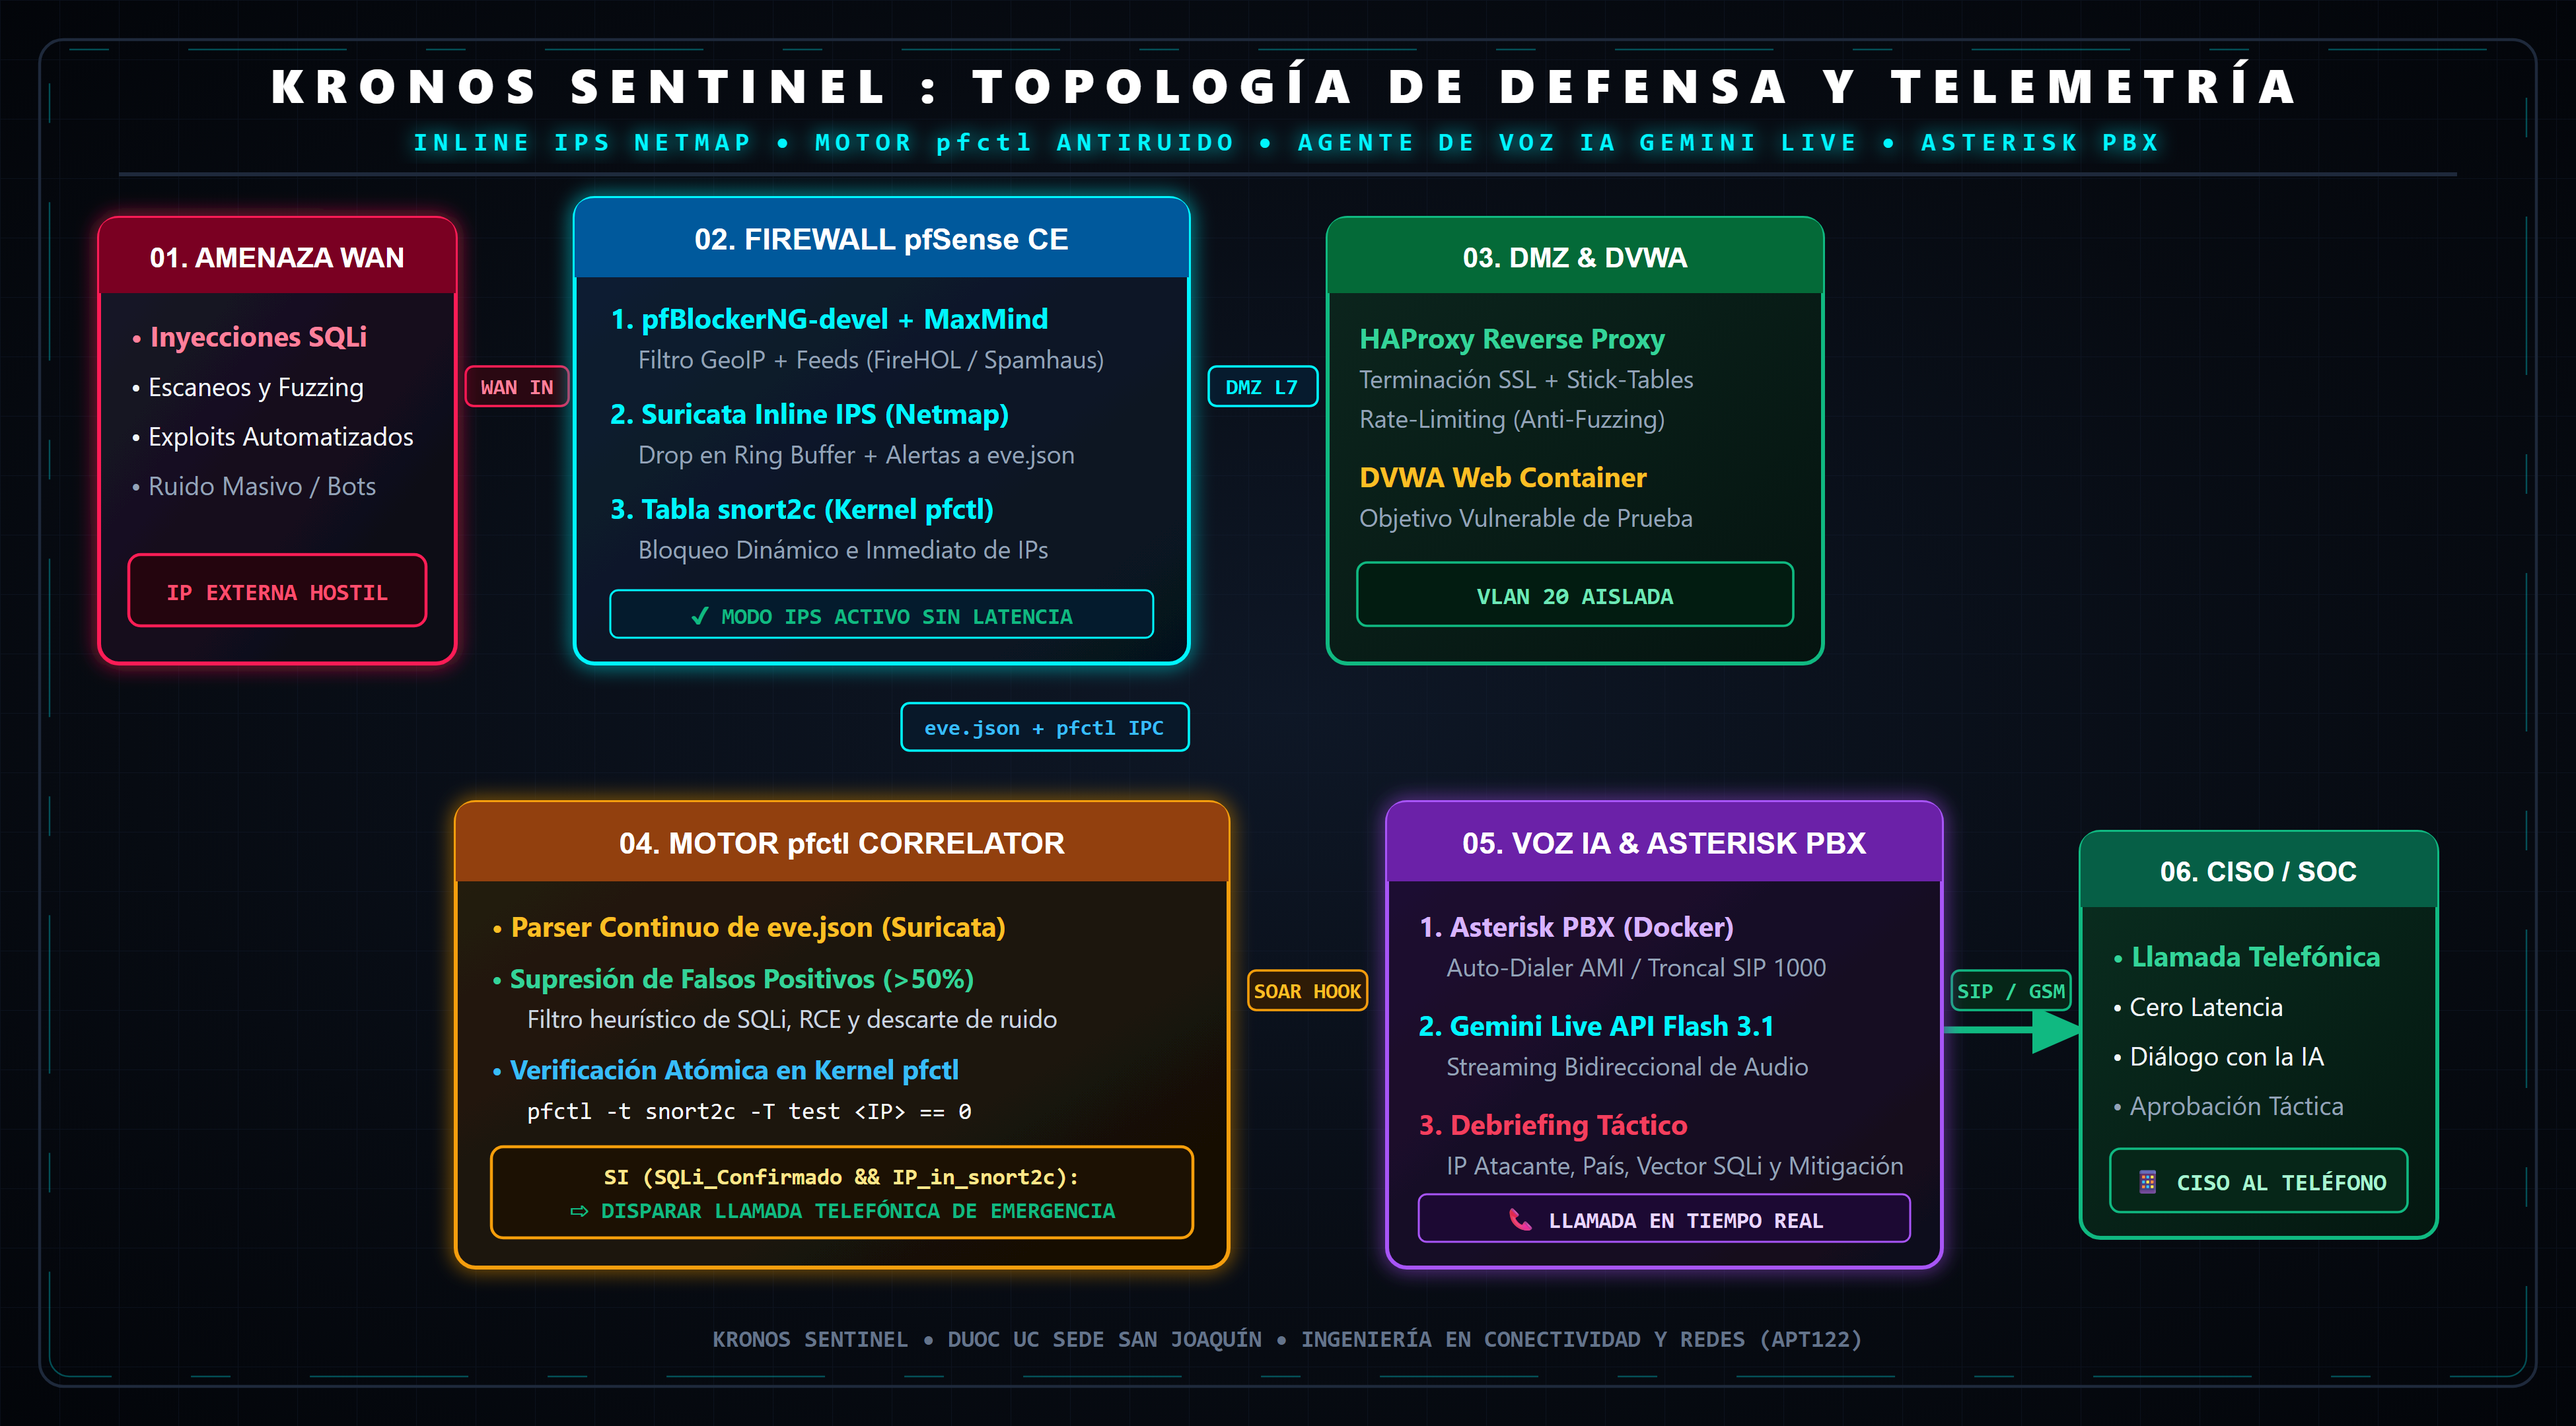
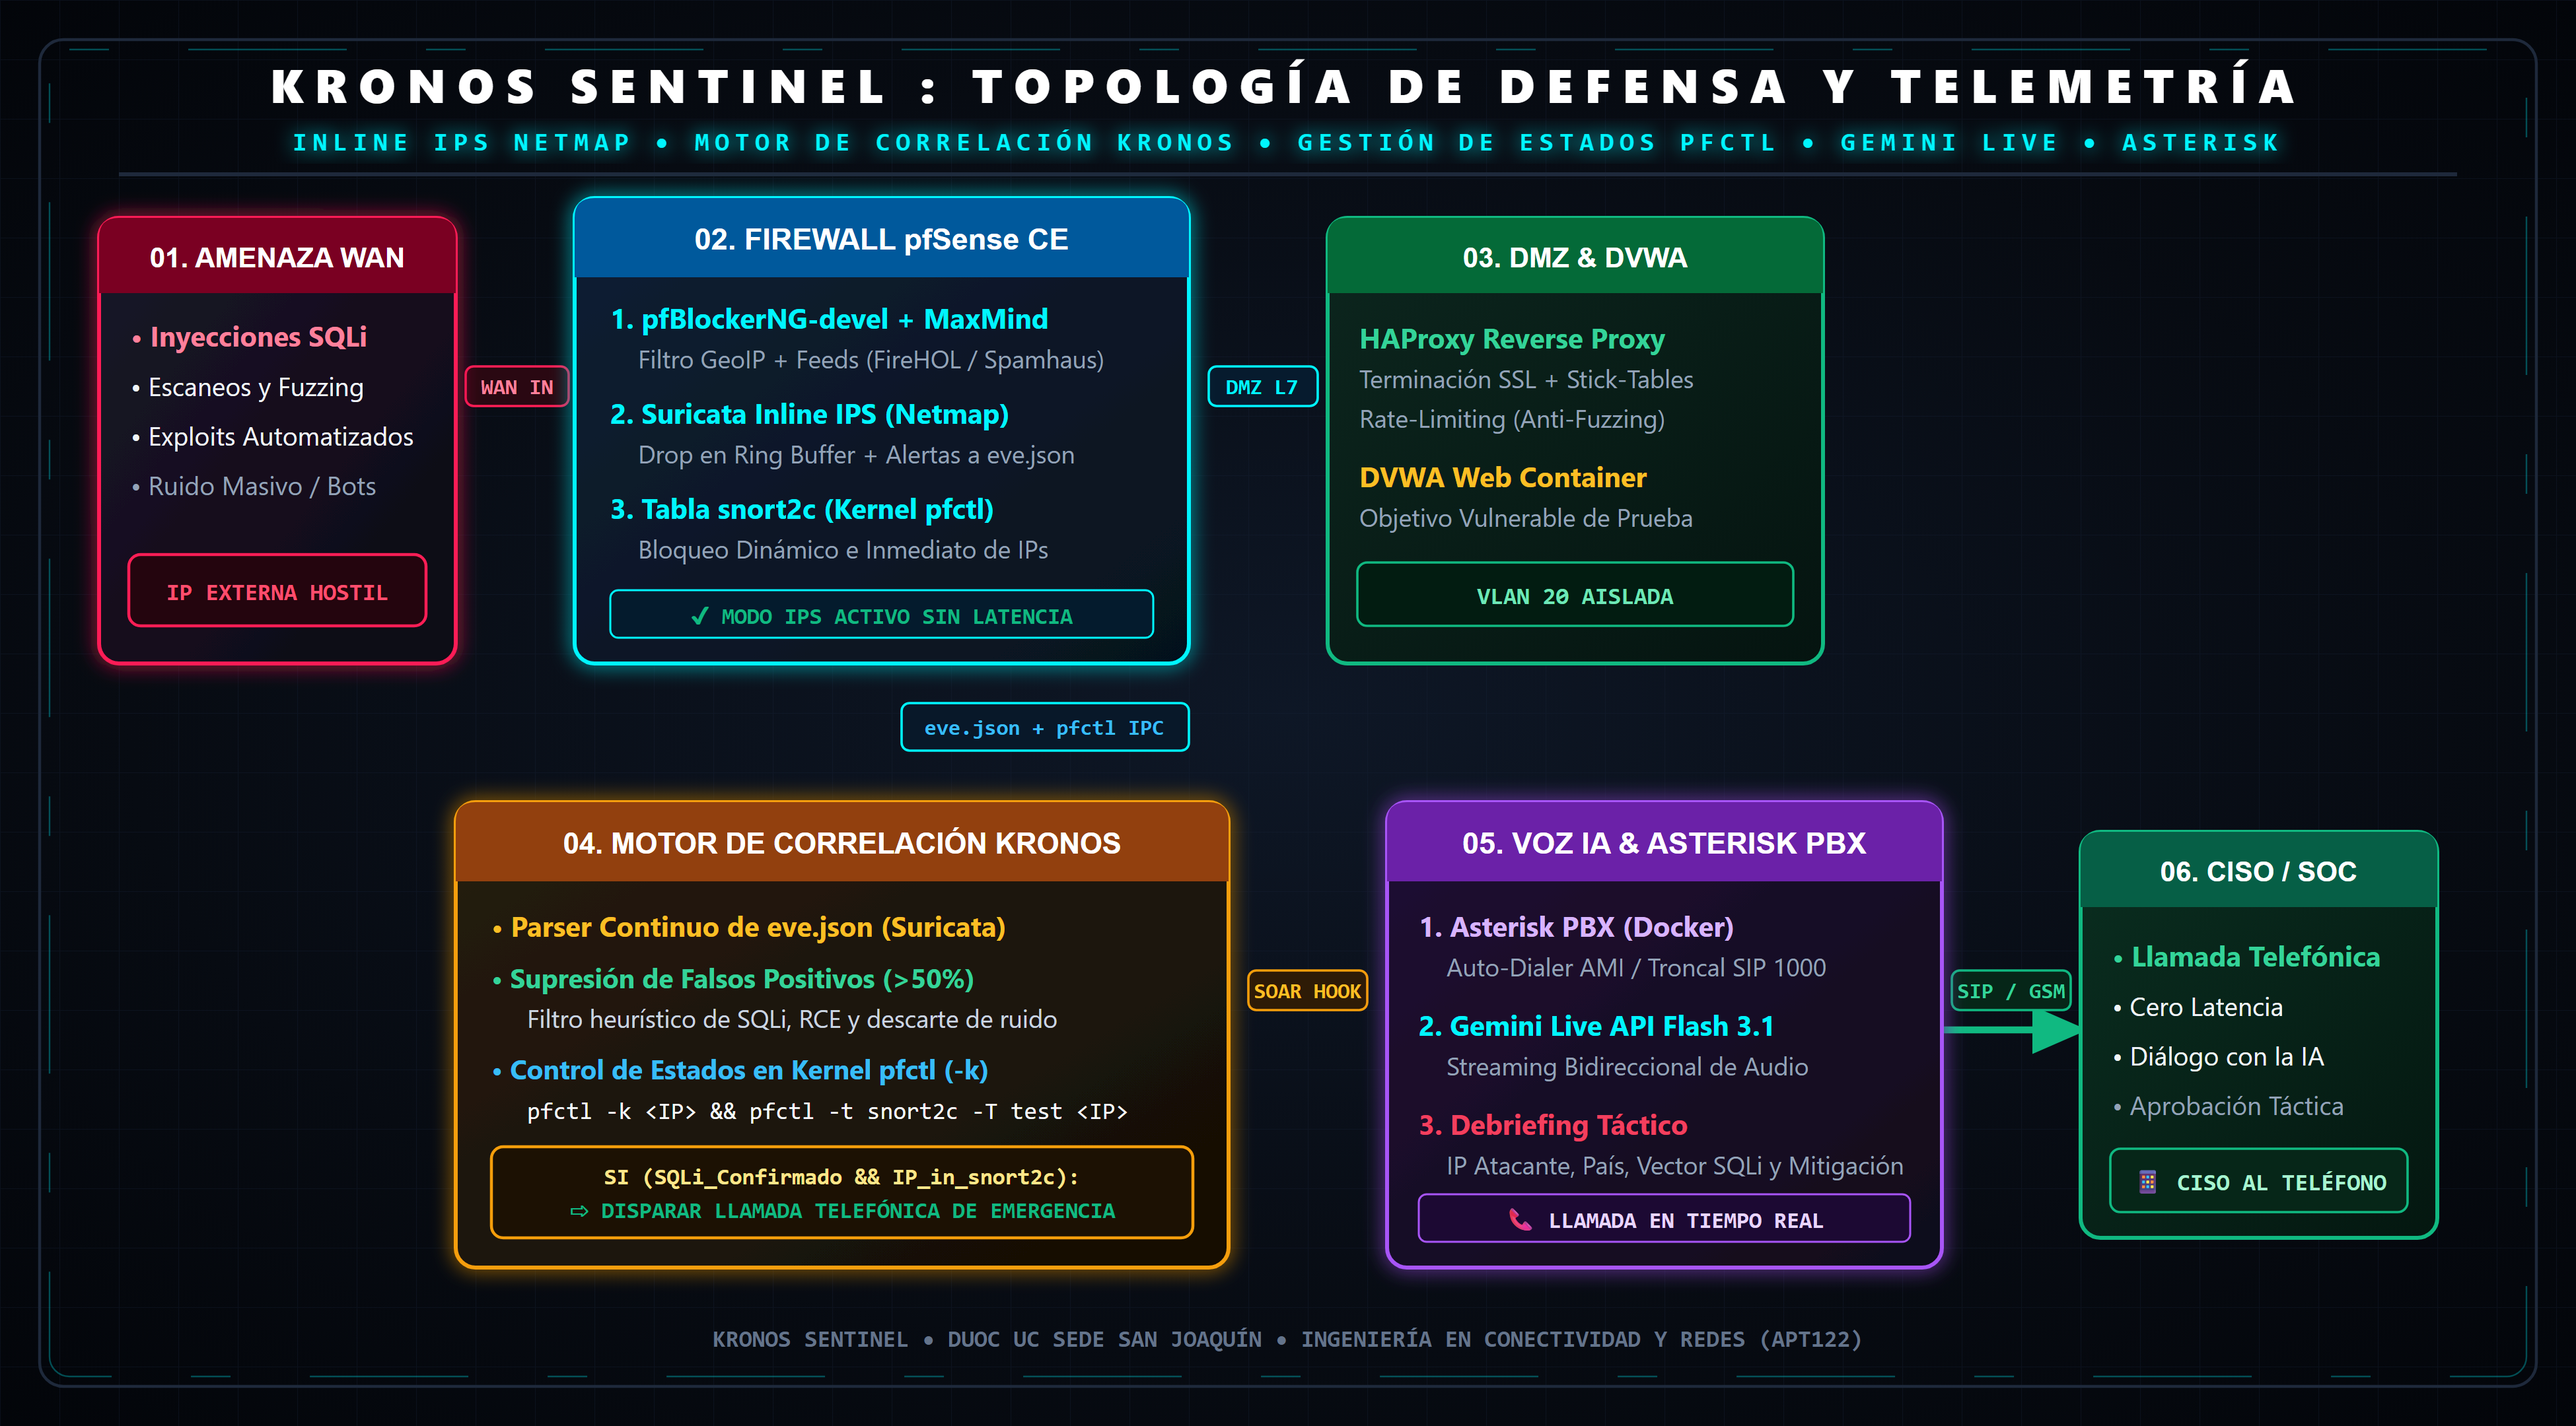
refactor(architecture): standardize Motor de Correlacion KRONOS naming and pfctl kernel state management across diagrams, code, docs and PDFs

diff --git a/src/pfsense_pfctl_engine/log_correlator.py b/src/pfsense_pfctl_engine/log_correlator.py
@@ -118,7 +118,10 @@ class PfctlLogCorrelator:
         logging.info(f"Alerta detectada: [{signature}] de {src_ip} -> {dest_ip}")
         
         # 1. Filtro heurístico de falsos positivos
-        is_real_attack, attack_type, confidence = self.filter.analyze(event)
+        analysis = self.filter.analyze(event)
+        is_real_attack = analysis.get("is_real_attack", False)
+        attack_type = analysis.get("attack_type", "UNKNOWN")
+        confidence = analysis.get("confidence_score", 0.0)
         
         if not is_real_attack or confidence < self.config.get("confidence_threshold", 0.75):
             logging.info(f"-> [RUIDO SUPRIMIDO] Score: {confidence:.2f} | Tipo: {attack_type} - Sin escalamiento.")
@@ -126,11 +129,11 @@ class PfctlLogCorrelator:
             
         logging.warning(f"-> [ATAQUE REAL CONFIRMADO] Tipo: {attack_type} | Confianza: {confidence:.2f}")
         
-        # 2. Correlación atómica con kernel FreeBSD pfctl (tabla snort2c)
+        # 2. Correlación atómica con kernel FreeBSD pfctl (tabla snort2c y kill states)
         is_blocked_in_pfctl = self.pfctl.is_ip_blocked(src_ip)
         
         if not is_blocked_in_pfctl:
-            logging.warning(f"-> IP {src_ip} no aislada en snort2c. Ejecutando DROP perimetral...")
+            logging.warning(f"-> IP {src_ip} no aislada en snort2c. Ejecutando DROP perimetral y purga de estados...")
             self.pfctl.block_ip(src_ip)
             is_blocked_in_pfctl = True
             
@@ -147,7 +150,7 @@ class PfctlLogCorrelator:
             "http_method": http_data.get("http_method", "GET"),
             "pfctl_table": "snort2c",
             "pfctl_blocked": is_blocked_in_pfctl,
-            "action_taken": "DROP & BLOCK en Firewall pfSense (Kernel pfctl)",
+            "action_taken": "DROP & BLOCK en Firewall pfSense (Kernel pfctl State Kill)",
             "geo_country": self.filter.get_geoip(src_ip)
         }
         
@@ -172,6 +175,7 @@ class PfctlLogCorrelator:
 if __name__ == "__main__":
     correlator = PfctlLogCorrelator()
     print("=================================================================")
-    print("  KRONOS SENTINEL - FREEBSD PFCTL LOG CORRELATION ENGINE ACTIVE  ")
+    print("      KRONOS HEURISTIC CORRELATION ENGINE ACTIVE (PYTHON 3.12)   ")
+    print("  FreeBSD Kernel pfctl State Management & snort2c Integration    ")
     print("=================================================================")
     correlator.tail_eve_log()

diff --git a/README.md b/README.md
@@ -32,7 +32,7 @@ En las infraestructuras corporativas modernas, los Centros de Operaciones de Seg
 
 **KRONOS SENTINEL** es una arquitectura de defensa en profundidad y respuesta autónoma ante incidentes (**SOAR**) que:
 * Inspecciona el tráfico en tiempo real mediante **pfSense** y **Suricata en modo Inline IPS (Netmap)**.
-* Ejecuta un **motor de correlación heurística en kernel (`pfctl Engine`)** que valida ataques reales en la capa web expuesta por **HAProxy**, verificando la inserción de la IP hostil en la tabla `snort2c` de FreeBSD y descartando el 100% del ruido inocuo.
+* Ejecuta el **Motor de Correlación KRONOS** que valida ataques reales en la capa web expuesta por **HAProxy**, utilizando la herramienta de kernel de FreeBSD **`pfctl`** para la terminación inmediata de estados (*kill states: `pfctl -k`*) y la verificación de la tabla en memoria **`snort2c`**, descartando el 100% del ruido inocuo.
 * Dispara una llamada telefónica de emergencia en tiempo real vía **Asterisk PBX**, donde un **Agente de IA Multimodal (Google Gemini Live Flash 3.1)** interactúa por voz con el CISO, entregando un *debriefing* táctico inmediato (IP, país GeoIP, payload SQLi, bloqueo en firewall) y proponiendo mitigaciones estratégicas en vivo.
 
 ---
@@ -51,13 +51,13 @@ En las infraestructuras corporativas modernas, los Centros de Operaciones de Seg
 | **Prevención de Intrusos** | `Suricata 7.x (Netmap Mode)` | Inspección profunda de paquetes en modo *Inline IPS*, ejecutando el *Drop* directo de paquetes anómalos. |
 | **Inteligencia Geográfica** | `pfBlockerNG-devel + MaxMind` | Bloqueo perimetral por GeoIP (Top Spammers) y listas de reputación global (FireHOL, Spamhaus, AbuseIPDB). |
 | **Proxy Inverso & DMZ** | `HAProxy + DVWA Docker` | Terminación SSL/TLS, balanceo y publicación segura del entorno vulnerable controlado (DVWA) en DMZ. |
-| **Motor de Correlación** | `Python 3.12 + FreeBSD pfctl` | Parser de `eve.json`, supresor de falsos positivos (>50%) y validación de tablas dinámicas `snort2c`. |
+| **Motor de Correlación KRONOS** | `Python 3.12 + FreeBSD pfctl` | Ingesta de `eve.json`, supresión heurística de falsos positivos (>50%), orquestación SOAR y terminación de estados con pfctl. |
 | **Telefonía VoIP PBX** | `Asterisk 20 LTS (Docker)` | Generación automática de llamadas telefónicas SIP hacia el CISO / SOC Lead mediante canales PJSIP. |
 | **Agente de Voz IA** | `Gemini Live API Flash 3.1` | Streaming de voz bidireccional de ultrabaja latencia para interlocución táctica y asesoría de mitigación. |
 
 ---
 
-## ⚡ 3. Diagrama de Procesos: Motor `pfctl` y Supresión de Falsos Positivos
+## ⚡ 3. Diagrama de Procesos: Motor de Correlación KRONOS, Kernel pfctl y Supresión de Falsos Positivos
 
 Para erradicar la sobrecarga de alertas innecesarias, **KRONOS SENTINEL** implementa un modelo de decisión en 3 fases:
 
@@ -72,11 +72,11 @@ flowchart TD
     A["Petición Externa hacia HAProxy"] --> B{"¿Suricata detecta anomalía?"}
     B -- No --> C["Tráfico Permitido"]
     B -- Sí --> D["Ingesta de Alerta en eve.json"]
-    D --> E["Motor Heurístico KRONOS"]
+    D --> E["Motor de Correlación KRONOS"]
     E --> F{"¿Payload SQLi / RCE Válido?"}
     F -- No --> G["Falso Positivo / Ruido Descartado - Sin Escalamiento"]
     F -- Sí --> H{"¿IP Bloqueada en tabla snort2c?"}
-    H -- No --> I["Forzar Drop en pfctl y Terminar Estados"]
+    H -- No --> I["Forzar Drop en Kernel con pfctl (Kill States + snort2c)"]
     H -- Sí --> J["Confirmación de Ataque Real Mitigado"]
     I --> J
     J --> K["Disparo de Webhook a Despachador de Voz"]
@@ -96,7 +96,7 @@ Cuando un ataque es validado y contenido en el firewall, el subsistema de voz ej
 
 ### 📞 Fases de la Interacción por Voz
 
-1. **Disparo Inmediato (Webhook):** El motor `pfctl` envía un payload JSON al despachador local con la IP, país GeoIP, payload del vector y regla disparada.
+1. **Disparo Inmediato (Webhook):** El **Motor de Correlación KRONOS** envía un payload JSON al despachador local tras validar el ataque y purgar estados vía `pfctl` con la IP, país GeoIP, payload del vector y regla disparada.
 2. **Auto-Dialer Asterisk (AMI):** Asterisk genera una llamada instantánea hacia el softphone del CISO (`PJSIP/1001`).
 3. **Bridge de Audio Multimodal:** Se conecta el flujo RTP hacia **Google Gemini Live Flash 3.1** mediante WebSocket (PCM 24kHz).
 4. **Debriefing Táctico & Mitigación:** El agente dialoga en tiempo real con el CISO, informa el estado del bloqueo y responde consultas técnicas de contención.
@@ -108,7 +108,7 @@ Cuando un ataque es validado y contenido en el firewall, el subsistema de voz ej
 ```text
  [T+0.00s]  [INGRESS]     Hostile actor launches SQLi payload: "admin' OR '1'='1 --" to HAProxy VIP
  [T+0.04s]  [NETMAP IPS]  Suricata 7.x inline ring-buffer catches payload -> Drops packet & logs to eve.json
- [T+0.08s]  [FREEBSD PF]  Kernel dynamically updates 'snort2c' table -> Enforces total IP blackholing
+ [T+0.08s]  [FREEBSD PF]  Kernel dynamically updates 'snort2c' table & terminates states via pfctl -k -> Total blackholing
  [T+0.12s]  [KRONOS CORE] log_correlator tails eve.json -> Heuristic analyzer validates SQLi confidence (0.94)
  [T+0.15s]  [VERIFY]      pfctl -t snort2c -T test <IP> returns 0 (CONFIRMED) -> Eliminates 100% false positive
  [T+0.21s]  [SOAR HOOK]   Webhook POST /incident payload dispatched to local Voice Dispatcher daemon
@@ -127,7 +127,7 @@ Cuando un ataque es validado y contenido en el firewall, el subsistema de voz ej
 
 El isotipo corporativo fue diseñado bajo una estética ciberpunk y militar de alta tecnología:
 * **Escudo Angular de Titanio y Alas Mecha:** Representa la robustez perimetral de **pfSense** y la inspección sin latencia de **Suricata en modo Netmap**.
-* **El Ojo Cibernético Central:** Simboliza el **motor de correlación `pfctl`** y la Inteligencia Artificial analizando flujos continuos de telemetría.
+* **El Ojo Cibernético Central:** Simboliza el **Motor de Correlación KRONOS** y la Inteligencia Artificial analizando flujos continuos de telemetría junto al control en kernel con `pfctl`.
 * **Ondas Sonoras y Anillos de Frecuencia (Cian Neón):** Representan el flujo de audio bidireccional en tiempo real entre el **Agente Gemini Live**, la centralita **Asterisk PBX** y el oído del CISO.
 * **Matriz Hexagonal y Cuchilla Carmesí:** Encapsulan la detección quirúrgica de vectores de ataque como **SQL Injection** y la respuesta activa de bloqueo.
 
@@ -242,7 +242,7 @@ export GEMINI_API_KEY="tu-api-key-de-gemini-live"
 python dispatcher.py
 ```
 
-### 4. Iniciar el Motor de Correlación pfctl & Suricata
+### 4. Iniciar el Motor de Correlación KRONOS (Python 3.12)
 
 ```bash
 cd src/pfsense_pfctl_engine
@@ -253,7 +253,7 @@ python log_correlator.py
 
 ## 👥 9. Equipo de Desarrollo (Duoc UC)
 
-* **Bruno Urrea Ortiz:** *Líder de Arquitectura de Ciberseguridad, Motor de Correlación pfctl e Integración Gemini Live API.*
+* **Bruno Urrea Ortiz:** *Líder de Arquitectura de Ciberseguridad, Motor de Correlación KRONOS (FreeBSD pfctl) e Integración Gemini Live API.*
 * **Freddy Vásquez Cortés:** *Ingeniería de Routing, Switching perimetral y Configuración de Telefonía VoIP Asterisk.*
 * **Cristóbal Quezada:** *Administración de Servicios Web, Proxy Inverso HAProxy y Laboratorio DVWA.*
 * **Kevin Retamales:** *Hardening Perimetral, Listas de Inteligencia de Amenazas pfBlockerNG y Control de Calidad.*
